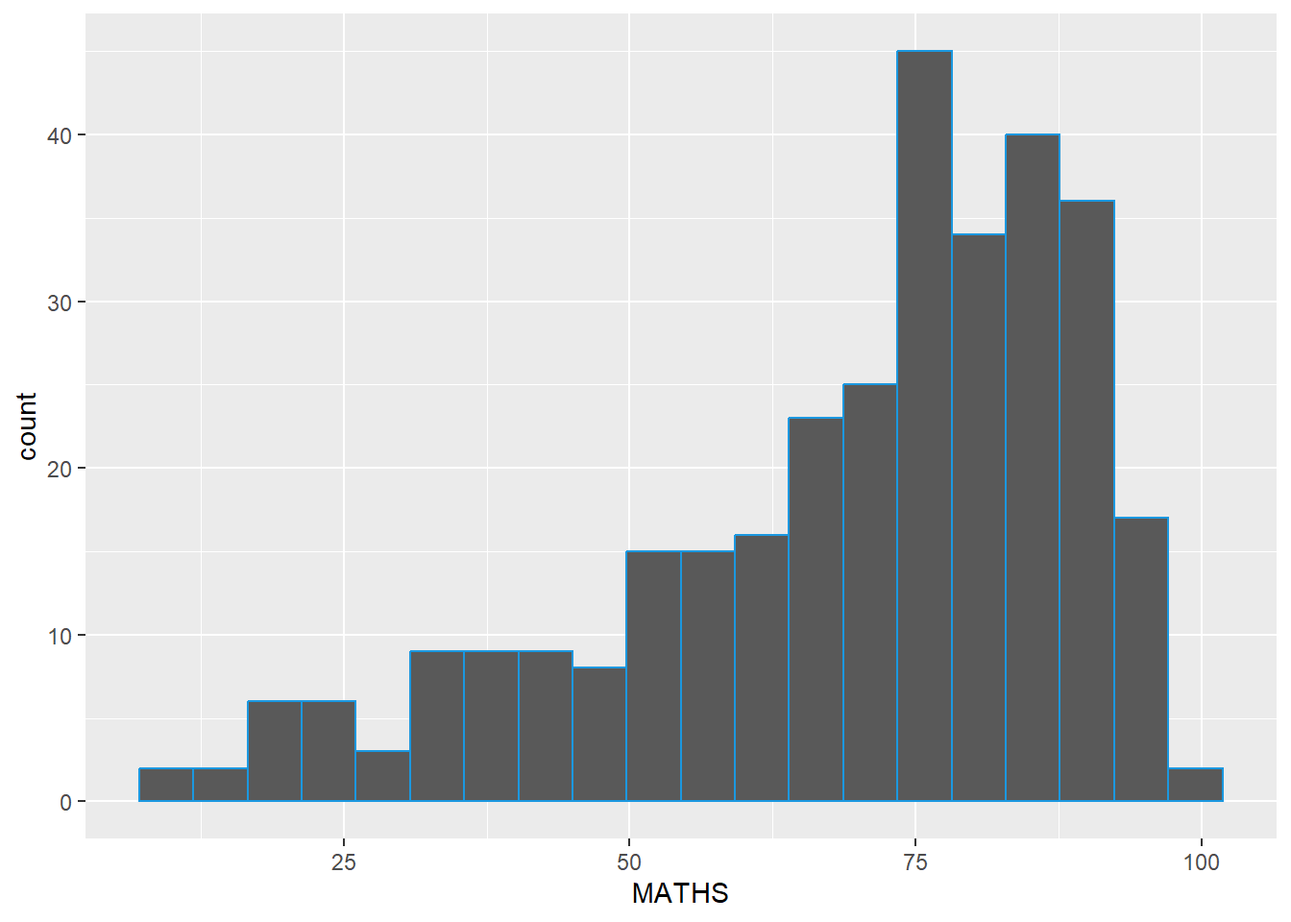
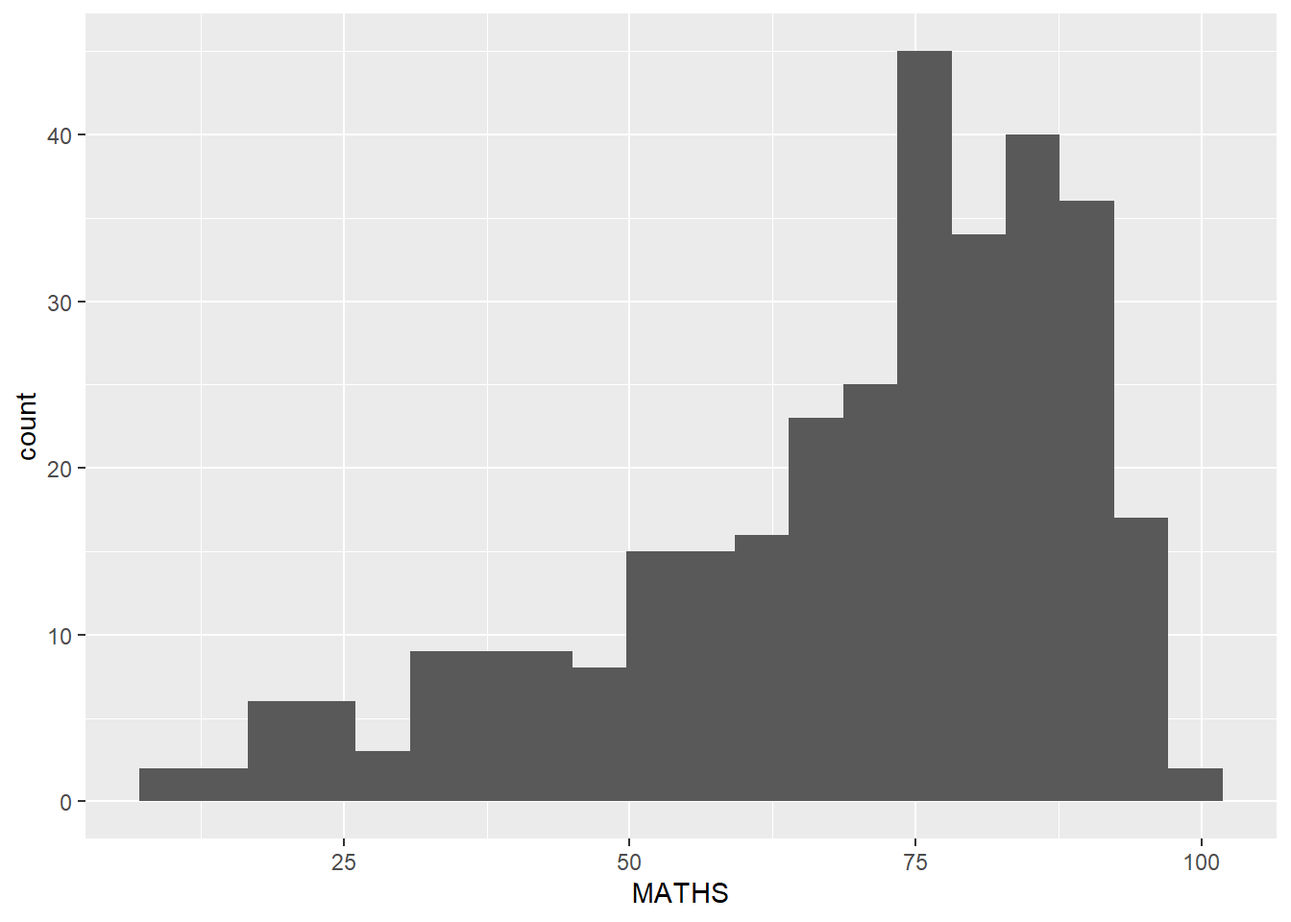
Commit refinement to In-class ex01 3

diff --git a/_site/In-class_Ex/In-class_Ex01/In-class_Ex01.html b/_site/In-class_Ex/In-class_Ex01/In-class_Ex01.html
@@ -198,22 +198,22 @@ code span.wa { color: #60a0b0; font-weight: bold; font-style: italic; } /* Warni
   <li><a href="#about-the-data" id="toc-about-the-data" class="nav-link" data-scroll-target="#about-the-data">About the data</a></li>
   </ul></li>
   <li><a href="#plotting-a-simple-horizontal-bar-chart" id="toc-plotting-a-simple-horizontal-bar-chart" class="nav-link" data-scroll-target="#plotting-a-simple-horizontal-bar-chart">Plotting a simple horizontal bar chart</a></li>
-  <li><a href="#designing-data-drive-graphics-for-analysis-i" id="toc-designing-data-drive-graphics-for-analysis-i" class="nav-link" data-scroll-target="#designing-data-drive-graphics-for-analysis-i">Designing Data-drive Graphics for Analysis I</a>
+  <li><a href="#designing-data-driven-graphics-for-analysis-i" id="toc-designing-data-driven-graphics-for-analysis-i" class="nav-link" data-scroll-target="#designing-data-driven-graphics-for-analysis-i">Designing Data-driven Graphics for Analysis I</a>
   <ul class="collapse">
   <li><a href="#the-original-design" id="toc-the-original-design" class="nav-link" data-scroll-target="#the-original-design">The original design</a></li>
   <li><a href="#the-makeover-design" id="toc-the-makeover-design" class="nav-link" data-scroll-target="#the-makeover-design">The makeover design</a></li>
   </ul></li>
-  <li><a href="#designing-data-drive-graphics-for-analysis-ii" id="toc-designing-data-drive-graphics-for-analysis-ii" class="nav-link" data-scroll-target="#designing-data-drive-graphics-for-analysis-ii">Designing Data-drive Graphics for Analysis II</a>
+  <li><a href="#designing-data-driven-graphics-for-analysis-ii" id="toc-designing-data-driven-graphics-for-analysis-ii" class="nav-link" data-scroll-target="#designing-data-driven-graphics-for-analysis-ii">Designing Data-driven Graphics for Analysis II</a>
   <ul class="collapse">
   <li><a href="#the-original-design-1" id="toc-the-original-design-1" class="nav-link" data-scroll-target="#the-original-design-1">The original design</a></li>
   <li><a href="#the-makeover-design-1" id="toc-the-makeover-design-1" class="nav-link" data-scroll-target="#the-makeover-design-1">The makeover design</a></li>
   </ul></li>
-  <li><a href="#designing-data-drive-graphics-for-analysis-iii" id="toc-designing-data-drive-graphics-for-analysis-iii" class="nav-link" data-scroll-target="#designing-data-drive-graphics-for-analysis-iii">Designing Data-drive Graphics for Analysis III</a>
+  <li><a href="#designing-data-driven-graphics-for-analysis-iii" id="toc-designing-data-driven-graphics-for-analysis-iii" class="nav-link" data-scroll-target="#designing-data-driven-graphics-for-analysis-iii">Designing Data-driven Graphics for Analysis III</a>
   <ul class="collapse">
   <li><a href="#the-original-design-2" id="toc-the-original-design-2" class="nav-link" data-scroll-target="#the-original-design-2">The original design</a></li>
   <li><a href="#the-makeover-design-2" id="toc-the-makeover-design-2" class="nav-link" data-scroll-target="#the-makeover-design-2">The makeover design</a></li>
   </ul></li>
-  <li><a href="#designing-data-drive-graphics-for-analysis-iv" id="toc-designing-data-drive-graphics-for-analysis-iv" class="nav-link" data-scroll-target="#designing-data-drive-graphics-for-analysis-iv">Designing Data-drive Graphics for Analysis IV</a>
+  <li><a href="#designing-data-driven-graphics-for-analysis-iv" id="toc-designing-data-driven-graphics-for-analysis-iv" class="nav-link" data-scroll-target="#designing-data-driven-graphics-for-analysis-iv">Designing Data-driven Graphics for Analysis IV</a>
   <ul class="collapse">
   <li><a href="#the-original-design-3" id="toc-the-original-design-3" class="nav-link" data-scroll-target="#the-original-design-3">The original design</a></li>
   <li><a href="#the-makeover-design-3" id="toc-the-makeover-design-3" class="nav-link" data-scroll-target="#the-makeover-design-3">The makeover design</a></li>
@@ -260,7 +260,7 @@ code span.wa { color: #60a0b0; font-weight: bold; font-style: italic; } /* Warni
 <p>The code chunk below uses p_load() of pacman package to check if tidyverse packages are installed on the computer. If they are, then they will be launched into R.</p>
 <div class="cell">
 <details>
-<summary>Code</summary>
+<summary>Show the code</summary>
 <div class="sourceCode cell-code" id="cb1"><pre class="sourceCode r code-with-copy"><code class="sourceCode r"><span id="cb1-1"><a href="#cb1-1" aria-hidden="true" tabindex="-1"></a>pacman<span class="sc">::</span><span class="fu">p_load</span>(tidyverse)</span></code><button title="Copy to Clipboard" class="code-copy-button"><i class="bi"></i></button></pre></div>
 </details>
 </div>
@@ -269,7 +269,7 @@ code span.wa { color: #60a0b0; font-weight: bold; font-style: italic; } /* Warni
 <h2 class="anchored" data-anchor-id="importing-the-data">Importing the data</h2>
 <div class="cell">
 <details>
-<summary>Code</summary>
+<summary>Show the code</summary>
 <div class="sourceCode cell-code" id="cb2"><pre class="sourceCode r code-with-copy"><code class="sourceCode r"><span id="cb2-1"><a href="#cb2-1" aria-hidden="true" tabindex="-1"></a>exam_data <span class="ot">&lt;-</span> <span class="fu">read_csv</span>(<span class="st">"data/Exam_data.csv"</span>)</span></code><button title="Copy to Clipboard" class="code-copy-button"><i class="bi"></i></button></pre></div>
 </details>
 </div>
@@ -283,7 +283,7 @@ code span.wa { color: #60a0b0; font-weight: bold; font-style: italic; } /* Warni
 <h1>Plotting a simple horizontal bar chart</h1>
 <div class="cell">
 <details>
-<summary>Code</summary>
+<summary>Show the code</summary>
 <div class="sourceCode cell-code" id="cb3"><pre class="sourceCode r code-with-copy"><code class="sourceCode r"><span id="cb3-1"><a href="#cb3-1" aria-hidden="true" tabindex="-1"></a><span class="fu">ggplot</span>(<span class="at">data =</span> exam_data,</span>
 <span id="cb3-2"><a href="#cb3-2" aria-hidden="true" tabindex="-1"></a>       <span class="fu">aes</span>(<span class="at">x =</span> RACE)) <span class="sc">+</span> </span>
 <span id="cb3-3"><a href="#cb3-3" aria-hidden="true" tabindex="-1"></a>  <span class="fu">geom_bar</span>() <span class="sc">+</span></span>
@@ -301,13 +301,13 @@ code span.wa { color: #60a0b0; font-weight: bold; font-style: italic; } /* Warni
 </div>
 </div>
 </section>
-<section id="designing-data-drive-graphics-for-analysis-i" class="level1">
-<h1>Designing Data-drive Graphics for Analysis I</h1>
+<section id="designing-data-driven-graphics-for-analysis-i" class="level1">
+<h1>Designing Data-driven Graphics for Analysis I</h1>
 <section id="the-original-design" class="level2">
 <h2 class="anchored" data-anchor-id="the-original-design">The original design</h2>
 <div class="cell">
 <details>
-<summary>Code</summary>
+<summary>Show the code</summary>
 <div class="sourceCode cell-code" id="cb4"><pre class="sourceCode r code-with-copy"><code class="sourceCode r"><span id="cb4-1"><a href="#cb4-1" aria-hidden="true" tabindex="-1"></a><span class="fu">ggplot</span>(<span class="at">data =</span> exam_data,</span>
 <span id="cb4-2"><a href="#cb4-2" aria-hidden="true" tabindex="-1"></a>       <span class="fu">aes</span>(<span class="at">x =</span> RACE)) <span class="sc">+</span> </span>
 <span id="cb4-3"><a href="#cb4-3" aria-hidden="true" tabindex="-1"></a>  <span class="fu">geom_bar</span>() <span class="sc">+</span></span>
@@ -328,7 +328,7 @@ code span.wa { color: #60a0b0; font-weight: bold; font-style: italic; } /* Warni
 <h2 class="anchored" data-anchor-id="the-makeover-design">The makeover design</h2>
 <div class="cell">
 <details>
-<summary>Code</summary>
+<summary>Show the code</summary>
 <div class="sourceCode cell-code" id="cb5"><pre class="sourceCode r code-with-copy"><code class="sourceCode r"><span id="cb5-1"><a href="#cb5-1" aria-hidden="true" tabindex="-1"></a><span class="fu">ggplot</span>(<span class="at">data =</span> exam_data,</span>
 <span id="cb5-2"><a href="#cb5-2" aria-hidden="true" tabindex="-1"></a>       <span class="fu">aes</span>(<span class="at">x=</span><span class="fu">reorder</span>(RACE,RACE,</span>
 <span id="cb5-3"><a href="#cb5-3" aria-hidden="true" tabindex="-1"></a>                     <span class="cf">function</span>(x)<span class="sc">-</span><span class="fu">length</span>(x)), <span class="at">fill =</span> RACE)) <span class="sc">+</span> </span>
@@ -348,29 +348,34 @@ code span.wa { color: #60a0b0; font-weight: bold; font-style: italic; } /* Warni
 </div>
 </section>
 </section>
-<section id="designing-data-drive-graphics-for-analysis-ii" class="level1">
-<h1>Designing Data-drive Graphics for Analysis II</h1>
+<section id="designing-data-driven-graphics-for-analysis-ii" class="level1">
+<h1>Designing Data-driven Graphics for Analysis II</h1>
 <section id="the-original-design-1" class="level2">
 <h2 class="anchored" data-anchor-id="the-original-design-1">The original design</h2>
 <div class="cell">
 <details>
-<summary>Code</summary>
+<summary>Show the code</summary>
 <div class="sourceCode cell-code" id="cb6"><pre class="sourceCode r code-with-copy"><code class="sourceCode r"><span id="cb6-1"><a href="#cb6-1" aria-hidden="true" tabindex="-1"></a><span class="fu">ggplot</span>(<span class="at">data =</span> exam_data,</span>
 <span id="cb6-2"><a href="#cb6-2" aria-hidden="true" tabindex="-1"></a>       <span class="fu">aes</span>(<span class="at">x =</span> MATHS)) <span class="sc">+</span> </span>
-<span id="cb6-3"><a href="#cb6-3" aria-hidden="true" tabindex="-1"></a>  <span class="fu">geom_histogram</span>(<span class="at">col =</span> <span class="st">"#1b98e0"</span>,</span>
-<span id="cb6-4"><a href="#cb6-4" aria-hidden="true" tabindex="-1"></a>                 <span class="at">bins=</span><span class="dv">20</span>) <span class="sc">+</span></span>
-<span id="cb6-5"><a href="#cb6-5" aria-hidden="true" tabindex="-1"></a>  <span class="fu">ylim</span>(<span class="dv">0</span>,<span class="dv">45</span>)</span></code><button title="Copy to Clipboard" class="code-copy-button"><i class="bi"></i></button></pre></div>
+<span id="cb6-3"><a href="#cb6-3" aria-hidden="true" tabindex="-1"></a>  <span class="fu">geom_histogram</span>(<span class="at">bins=</span><span class="dv">20</span>) <span class="sc">+</span></span>
+<span id="cb6-4"><a href="#cb6-4" aria-hidden="true" tabindex="-1"></a>  <span class="fu">ylim</span>(<span class="dv">0</span>,<span class="dv">45</span>)</span></code><button title="Copy to Clipboard" class="code-copy-button"><i class="bi"></i></button></pre></div>
 </details>
 <div class="cell-output-display">
 <p><img src="In-class_Ex01_files/figure-html/unnamed-chunk-6-1.png" class="img-fluid" width="672"></p>
 </div>
 </div>
+<p>Critique of this histogram:</p>
+<ol type="1">
+<li>y-aixs label is not clear (i.e.&nbsp;count).</li>
+<li>Can’t tell between each bar in the histogram</li>
+<li>There is no clear message that this histogram is looking to tell</li>
+</ol>
 </section>
 <section id="the-makeover-design-1" class="level2">
 <h2 class="anchored" data-anchor-id="the-makeover-design-1">The makeover design</h2>
 <div class="cell">
 <details>
-<summary>Code</summary>
+<summary>Show the code</summary>
 <div class="sourceCode cell-code" id="cb7"><pre class="sourceCode r code-with-copy"><code class="sourceCode r"><span id="cb7-1"><a href="#cb7-1" aria-hidden="true" tabindex="-1"></a><span class="fu">ggplot</span>(<span class="at">data=</span>exam_data, </span>
 <span id="cb7-2"><a href="#cb7-2" aria-hidden="true" tabindex="-1"></a>       <span class="fu">aes</span>(<span class="at">x=</span> MATHS)) <span class="sc">+</span></span>
 <span id="cb7-3"><a href="#cb7-3" aria-hidden="true" tabindex="-1"></a>  <span class="fu">geom_histogram</span>(<span class="at">bins=</span><span class="dv">20</span>, </span>
@@ -384,55 +389,53 @@ code span.wa { color: #60a0b0; font-weight: bold; font-style: italic; } /* Warni
 <span id="cb7-11"><a href="#cb7-11" aria-hidden="true" tabindex="-1"></a>             <span class="at">color=</span><span class="st">"grey30"</span>,</span>
 <span id="cb7-12"><a href="#cb7-12" aria-hidden="true" tabindex="-1"></a>             <span class="at">linetype=</span><span class="st">"dashed"</span>, </span>
 <span id="cb7-13"><a href="#cb7-13" aria-hidden="true" tabindex="-1"></a>             <span class="at">size=</span><span class="dv">1</span>) <span class="sc">+</span> <span class="fu">annotate</span>(<span class="st">"text"</span>, <span class="at">x=</span><span class="dv">75</span>, <span class="at">y=</span><span class="dv">40</span>, <span class="at">label=</span><span class="st">"Median"</span>, <span class="at">angle=</span><span class="dv">90</span>, <span class="at">size=</span><span class="dv">3</span>, <span class="at">color=</span><span class="st">"grey30"</span>) <span class="sc">+</span></span>
-<span id="cb7-14"><a href="#cb7-14" aria-hidden="true" tabindex="-1"></a>             <span class="fu">annotate</span>(<span class="st">"text"</span>, <span class="at">x=</span><span class="dv">68</span>, <span class="at">y=</span><span class="dv">40</span>, <span class="at">label=</span><span class="st">"Mean"</span>, <span class="at">angle=</span><span class="dv">90</span>, <span class="at">size=</span><span class="dv">3</span>, <span class="at">color=</span><span class="st">"red"</span>)</span></code><button title="Copy to Clipboard" class="code-copy-button"><i class="bi"></i></button></pre></div>
+<span id="cb7-14"><a href="#cb7-14" aria-hidden="true" tabindex="-1"></a>             <span class="fu">annotate</span>(<span class="st">"text"</span>, <span class="at">x=</span><span class="dv">68</span>, <span class="at">y=</span><span class="dv">40</span>, <span class="at">label=</span><span class="st">"Mean"</span>, <span class="at">angle=</span><span class="dv">90</span>, <span class="at">size=</span><span class="dv">3</span>, <span class="at">color=</span><span class="st">"red"</span>) <span class="sc">+</span></span>
+<span id="cb7-15"><a href="#cb7-15" aria-hidden="true" tabindex="-1"></a>  <span class="fu">ylim</span>(<span class="dv">0</span>,<span class="dv">45</span>)</span></code><button title="Copy to Clipboard" class="code-copy-button"><i class="bi"></i></button></pre></div>
 </details>
 <div class="cell-output-display">
 <p><img src="In-class_Ex01_files/figure-html/unnamed-chunk-7-1.png" class="img-fluid" width="672"></p>
 </div>
-<details>
-<summary>Code</summary>
-<div class="sourceCode cell-code" id="cb8"><pre class="sourceCode r code-with-copy"><code class="sourceCode r"><span id="cb8-1"><a href="#cb8-1" aria-hidden="true" tabindex="-1"></a>  <span class="fu">ylim</span>(<span class="dv">0</span>,<span class="dv">45</span>)</span></code><button title="Copy to Clipboard" class="code-copy-button"><i class="bi"></i></button></pre></div>
-</details>
-<div class="cell-output cell-output-stdout">
-<pre><code>&lt;ScaleContinuousPosition&gt;
- Range:  
- Limits:    0 --   45</code></pre>
-</div>
 </div>
 </section>
 </section>
-<section id="designing-data-drive-graphics-for-analysis-iii" class="level1">
-<h1>Designing Data-drive Graphics for Analysis III</h1>
+<section id="designing-data-driven-graphics-for-analysis-iii" class="level1">
+<h1>Designing Data-driven Graphics for Analysis III</h1>
 <section id="the-original-design-2" class="level2">
 <h2 class="anchored" data-anchor-id="the-original-design-2">The original design</h2>
 <div class="cell">
 <details>
-<summary>Code</summary>
-<div class="sourceCode cell-code" id="cb10"><pre class="sourceCode r code-with-copy"><code class="sourceCode r"><span id="cb10-1"><a href="#cb10-1" aria-hidden="true" tabindex="-1"></a><span class="fu">ggplot</span>(<span class="at">data=</span>exam_data, <span class="fu">aes</span>(<span class="at">x =</span> ENGLISH)) <span class="sc">+</span></span>
-<span id="cb10-2"><a href="#cb10-2" aria-hidden="true" tabindex="-1"></a>  <span class="fu">geom_histogram</span>(<span class="at">data =</span> exam_data, <span class="at">fill =</span> <span class="st">"darkgrey"</span>) <span class="sc">+</span></span>
-<span id="cb10-3"><a href="#cb10-3" aria-hidden="true" tabindex="-1"></a>  <span class="fu">facet_wrap</span>(<span class="sc">~</span> GENDER) <span class="sc">+</span></span>
-<span id="cb10-4"><a href="#cb10-4" aria-hidden="true" tabindex="-1"></a>  <span class="fu">guides</span>(<span class="at">fill =</span> <span class="cn">FALSE</span>) <span class="sc">+</span>  </span>
-<span id="cb10-5"><a href="#cb10-5" aria-hidden="true" tabindex="-1"></a>  <span class="fu">theme_bw</span>()</span></code><button title="Copy to Clipboard" class="code-copy-button"><i class="bi"></i></button></pre></div>
+<summary>Show the code</summary>
+<div class="sourceCode cell-code" id="cb8"><pre class="sourceCode r code-with-copy"><code class="sourceCode r"><span id="cb8-1"><a href="#cb8-1" aria-hidden="true" tabindex="-1"></a><span class="fu">ggplot</span>(<span class="at">data=</span>exam_data, <span class="fu">aes</span>(<span class="at">x =</span> ENGLISH)) <span class="sc">+</span></span>
+<span id="cb8-2"><a href="#cb8-2" aria-hidden="true" tabindex="-1"></a>  <span class="fu">geom_histogram</span>(<span class="at">data =</span> exam_data, <span class="at">fill =</span> <span class="st">"darkgrey"</span>) <span class="sc">+</span></span>
+<span id="cb8-3"><a href="#cb8-3" aria-hidden="true" tabindex="-1"></a>  <span class="fu">facet_wrap</span>(<span class="sc">~</span> GENDER) <span class="sc">+</span></span>
+<span id="cb8-4"><a href="#cb8-4" aria-hidden="true" tabindex="-1"></a>  <span class="fu">guides</span>(<span class="at">fill =</span> <span class="cn">FALSE</span>) <span class="sc">+</span>  </span>
+<span id="cb8-5"><a href="#cb8-5" aria-hidden="true" tabindex="-1"></a>  <span class="fu">theme_bw</span>()</span></code><button title="Copy to Clipboard" class="code-copy-button"><i class="bi"></i></button></pre></div>
 </details>
 <div class="cell-output-display">
 <p><img src="In-class_Ex01_files/figure-html/unnamed-chunk-8-1.png" class="img-fluid" width="672"></p>
 </div>
 </div>
+<p>Critique of these 2 histogram:</p>
+<ol type="1">
+<li>y-aixs label is not clear (i.e.&nbsp;count).</li>
+<li>There difference between male and female results is not apparent as there is no reference</li>
+<li>There is no clear message that these histograms are looking to tell</li>
+</ol>
 </section>
 <section id="the-makeover-design-2" class="level2">
 <h2 class="anchored" data-anchor-id="the-makeover-design-2">The makeover design</h2>
 <div class="cell">
 <details>
-<summary>Code</summary>
-<div class="sourceCode cell-code" id="cb11"><pre class="sourceCode r code-with-copy"><code class="sourceCode r"><span id="cb11-1"><a href="#cb11-1" aria-hidden="true" tabindex="-1"></a>d <span class="ot">&lt;-</span> exam_data   </span>
-<span id="cb11-2"><a href="#cb11-2" aria-hidden="true" tabindex="-1"></a>d_bg <span class="ot">&lt;-</span> d[, <span class="sc">-</span><span class="dv">3</span>]  </span>
-<span id="cb11-3"><a href="#cb11-3" aria-hidden="true" tabindex="-1"></a></span>
-<span id="cb11-4"><a href="#cb11-4" aria-hidden="true" tabindex="-1"></a><span class="fu">ggplot</span>(d, <span class="fu">aes</span>(<span class="at">x =</span> ENGLISH, <span class="at">fill =</span> GENDER)) <span class="sc">+</span></span>
-<span id="cb11-5"><a href="#cb11-5" aria-hidden="true" tabindex="-1"></a>  <span class="fu">geom_histogram</span>(<span class="at">data =</span> d_bg, <span class="at">fill =</span> <span class="st">"grey"</span>, <span class="at">alpha =</span> .<span class="dv">5</span>) <span class="sc">+</span></span>
-<span id="cb11-6"><a href="#cb11-6" aria-hidden="true" tabindex="-1"></a>  <span class="fu">geom_histogram</span>(<span class="at">colour =</span> <span class="st">"black"</span>) <span class="sc">+</span></span>
-<span id="cb11-7"><a href="#cb11-7" aria-hidden="true" tabindex="-1"></a>  <span class="fu">facet_wrap</span>(<span class="sc">~</span> GENDER) <span class="sc">+</span></span>
-<span id="cb11-8"><a href="#cb11-8" aria-hidden="true" tabindex="-1"></a>  <span class="fu">guides</span>(<span class="at">fill =</span> <span class="cn">FALSE</span>) <span class="sc">+</span>  </span>
-<span id="cb11-9"><a href="#cb11-9" aria-hidden="true" tabindex="-1"></a>  <span class="fu">theme_bw</span>()</span></code><button title="Copy to Clipboard" class="code-copy-button"><i class="bi"></i></button></pre></div>
+<summary>Show the code</summary>
+<div class="sourceCode cell-code" id="cb9"><pre class="sourceCode r code-with-copy"><code class="sourceCode r"><span id="cb9-1"><a href="#cb9-1" aria-hidden="true" tabindex="-1"></a>d <span class="ot">&lt;-</span> exam_data   </span>
+<span id="cb9-2"><a href="#cb9-2" aria-hidden="true" tabindex="-1"></a>d_bg <span class="ot">&lt;-</span> d[, <span class="sc">-</span><span class="dv">3</span>]  </span>
+<span id="cb9-3"><a href="#cb9-3" aria-hidden="true" tabindex="-1"></a></span>
+<span id="cb9-4"><a href="#cb9-4" aria-hidden="true" tabindex="-1"></a><span class="fu">ggplot</span>(d, <span class="fu">aes</span>(<span class="at">x =</span> ENGLISH, <span class="at">fill =</span> GENDER)) <span class="sc">+</span></span>
+<span id="cb9-5"><a href="#cb9-5" aria-hidden="true" tabindex="-1"></a>  <span class="fu">geom_histogram</span>(<span class="at">data =</span> d_bg, <span class="at">fill =</span> <span class="st">"grey"</span>, <span class="at">alpha =</span> .<span class="dv">5</span>) <span class="sc">+</span></span>
+<span id="cb9-6"><a href="#cb9-6" aria-hidden="true" tabindex="-1"></a>  <span class="fu">geom_histogram</span>(<span class="at">colour =</span> <span class="st">"black"</span>) <span class="sc">+</span></span>
+<span id="cb9-7"><a href="#cb9-7" aria-hidden="true" tabindex="-1"></a>  <span class="fu">facet_wrap</span>(<span class="sc">~</span> GENDER) <span class="sc">+</span></span>
+<span id="cb9-8"><a href="#cb9-8" aria-hidden="true" tabindex="-1"></a>  <span class="fu">guides</span>(<span class="at">fill =</span> <span class="cn">FALSE</span>) <span class="sc">+</span>  </span>
+<span id="cb9-9"><a href="#cb9-9" aria-hidden="true" tabindex="-1"></a>  <span class="fu">theme_bw</span>()</span></code><button title="Copy to Clipboard" class="code-copy-button"><i class="bi"></i></button></pre></div>
 </details>
 <div class="cell-output-display">
 <p><img src="In-class_Ex01_files/figure-html/unnamed-chunk-9-1.png" class="img-fluid" width="672"></p>
@@ -440,43 +443,49 @@ code span.wa { color: #60a0b0; font-weight: bold; font-style: italic; } /* Warni
 </div>
 </section>
 </section>
-<section id="designing-data-drive-graphics-for-analysis-iv" class="level1">
-<h1>Designing Data-drive Graphics for Analysis IV</h1>
+<section id="designing-data-driven-graphics-for-analysis-iv" class="level1">
+<h1>Designing Data-driven Graphics for Analysis IV</h1>
 <section id="the-original-design-3" class="level2">
 <h2 class="anchored" data-anchor-id="the-original-design-3">The original design</h2>
 <div class="cell">
 <details>
-<summary>Code</summary>
-<div class="sourceCode cell-code" id="cb12"><pre class="sourceCode r code-with-copy"><code class="sourceCode r"><span id="cb12-1"><a href="#cb12-1" aria-hidden="true" tabindex="-1"></a><span class="fu">ggplot</span>(<span class="at">data=</span>exam_data, </span>
-<span id="cb12-2"><a href="#cb12-2" aria-hidden="true" tabindex="-1"></a>       <span class="fu">aes</span>(<span class="at">x=</span> MATHS, </span>
-<span id="cb12-3"><a href="#cb12-3" aria-hidden="true" tabindex="-1"></a>           <span class="at">y=</span>ENGLISH)) <span class="sc">+</span></span>
-<span id="cb12-4"><a href="#cb12-4" aria-hidden="true" tabindex="-1"></a>  <span class="fu">geom_point</span>(<span class="at">size =</span> <span class="fl">0.8</span>) <span class="sc">+</span></span>
-<span id="cb12-5"><a href="#cb12-5" aria-hidden="true" tabindex="-1"></a>  <span class="fu">coord_cartesian</span>(<span class="at">xlim=</span><span class="fu">c</span>(<span class="dv">0</span>,<span class="dv">100</span>),</span>
-<span id="cb12-6"><a href="#cb12-6" aria-hidden="true" tabindex="-1"></a>                  <span class="at">ylim=</span><span class="fu">c</span>(<span class="dv">0</span>,<span class="dv">100</span>))</span></code><button title="Copy to Clipboard" class="code-copy-button"><i class="bi"></i></button></pre></div>
+<summary>Show the code</summary>
+<div class="sourceCode cell-code" id="cb10"><pre class="sourceCode r code-with-copy"><code class="sourceCode r"><span id="cb10-1"><a href="#cb10-1" aria-hidden="true" tabindex="-1"></a><span class="fu">ggplot</span>(<span class="at">data=</span>exam_data, </span>
+<span id="cb10-2"><a href="#cb10-2" aria-hidden="true" tabindex="-1"></a>       <span class="fu">aes</span>(<span class="at">x=</span> MATHS, </span>
+<span id="cb10-3"><a href="#cb10-3" aria-hidden="true" tabindex="-1"></a>           <span class="at">y=</span>ENGLISH)) <span class="sc">+</span></span>
+<span id="cb10-4"><a href="#cb10-4" aria-hidden="true" tabindex="-1"></a>  <span class="fu">geom_point</span>(<span class="at">size =</span> <span class="fl">0.8</span>) <span class="sc">+</span></span>
+<span id="cb10-5"><a href="#cb10-5" aria-hidden="true" tabindex="-1"></a>  <span class="fu">coord_cartesian</span>(<span class="at">xlim=</span><span class="fu">c</span>(<span class="dv">0</span>,<span class="dv">100</span>),</span>
+<span id="cb10-6"><a href="#cb10-6" aria-hidden="true" tabindex="-1"></a>                  <span class="at">ylim=</span><span class="fu">c</span>(<span class="dv">0</span>,<span class="dv">100</span>))</span></code><button title="Copy to Clipboard" class="code-copy-button"><i class="bi"></i></button></pre></div>
 </details>
 <div class="cell-output-display">
 <p><img src="In-class_Ex01_files/figure-html/unnamed-chunk-10-1.png" class="img-fluid" width="672"></p>
 </div>
 </div>
+<p>Critique of this Scatterplot:</p>
+<ol type="1">
+<li>Points are two small</li>
+<li>No relative reference point/line</li>
+<li>There is no clear message that this histogram is looking to tell</li>
+</ol>
 </section>
 <section id="the-makeover-design-3" class="level2">
 <h2 class="anchored" data-anchor-id="the-makeover-design-3">The makeover design</h2>
 <div class="cell">
 <details>
-<summary>Code</summary>
-<div class="sourceCode cell-code" id="cb13"><pre class="sourceCode r code-with-copy"><code class="sourceCode r"><span id="cb13-1"><a href="#cb13-1" aria-hidden="true" tabindex="-1"></a><span class="fu">ggplot</span>(<span class="at">data=</span>exam_data, </span>
-<span id="cb13-2"><a href="#cb13-2" aria-hidden="true" tabindex="-1"></a>       <span class="fu">aes</span>(<span class="at">x=</span>MATHS, <span class="at">y=</span>ENGLISH)) <span class="sc">+</span></span>
-<span id="cb13-3"><a href="#cb13-3" aria-hidden="true" tabindex="-1"></a>  <span class="fu">geom_point</span>() <span class="sc">+</span></span>
-<span id="cb13-4"><a href="#cb13-4" aria-hidden="true" tabindex="-1"></a>  <span class="fu">coord_cartesian</span>(<span class="at">xlim=</span><span class="fu">c</span>(<span class="dv">0</span>,<span class="dv">100</span>),</span>
-<span id="cb13-5"><a href="#cb13-5" aria-hidden="true" tabindex="-1"></a>                  <span class="at">ylim=</span><span class="fu">c</span>(<span class="dv">0</span>,<span class="dv">100</span>)) <span class="sc">+</span></span>
-<span id="cb13-6"><a href="#cb13-6" aria-hidden="true" tabindex="-1"></a>  <span class="fu">geom_hline</span>(<span class="at">yintercept=</span><span class="dv">50</span>,</span>
-<span id="cb13-7"><a href="#cb13-7" aria-hidden="true" tabindex="-1"></a>             <span class="at">linetype=</span><span class="st">"dashed"</span>,</span>
-<span id="cb13-8"><a href="#cb13-8" aria-hidden="true" tabindex="-1"></a>             <span class="at">color=</span><span class="st">"grey60"</span>,</span>
-<span id="cb13-9"><a href="#cb13-9" aria-hidden="true" tabindex="-1"></a>             <span class="at">size=</span><span class="dv">1</span>) <span class="sc">+</span> </span>
-<span id="cb13-10"><a href="#cb13-10" aria-hidden="true" tabindex="-1"></a>  <span class="fu">geom_vline</span>(<span class="at">xintercept=</span><span class="dv">50</span>, </span>
-<span id="cb13-11"><a href="#cb13-11" aria-hidden="true" tabindex="-1"></a>             <span class="at">linetype=</span><span class="st">"dashed"</span>,</span>
-<span id="cb13-12"><a href="#cb13-12" aria-hidden="true" tabindex="-1"></a>             <span class="at">color=</span><span class="st">"grey60"</span>,</span>
-<span id="cb13-13"><a href="#cb13-13" aria-hidden="true" tabindex="-1"></a>             <span class="at">size=</span><span class="dv">1</span>) <span class="sc">+</span> <span class="fu">annotate</span>(<span class="st">"text"</span>, <span class="at">x=</span><span class="dv">14</span>, <span class="at">y=</span><span class="dv">5</span>, <span class="at">label=</span><span class="st">"Weak at both Subjects"</span>, <span class="at">angle=</span><span class="dv">0</span>, <span class="at">size=</span><span class="dv">5</span>, <span class="at">color=</span><span class="st">"red"</span>) <span class="sc">+</span> <span class="fu">annotate</span>(<span class="st">"text"</span>, <span class="at">x=</span><span class="dv">85</span>, <span class="at">y=</span><span class="dv">100</span>, <span class="at">label=</span><span class="st">"Strong at both Subjects"</span>, <span class="at">angle=</span><span class="dv">0</span>, <span class="at">size=</span><span class="dv">5</span>, <span class="at">color=</span><span class="st">"green"</span>) <span class="sc">+</span> <span class="fu">annotate</span>(<span class="st">"text"</span>, <span class="at">x=</span><span class="dv">85</span>, <span class="at">y=</span><span class="dv">5</span>, <span class="at">label=</span><span class="st">"Stronger at Maths"</span>, <span class="at">angle=</span><span class="dv">0</span>, <span class="at">size=</span><span class="dv">5</span>, <span class="at">color=</span><span class="st">"orange"</span>) <span class="sc">+</span> <span class="fu">annotate</span>(<span class="st">"text"</span>, <span class="at">x=</span><span class="dv">14</span>, <span class="at">y=</span><span class="dv">100</span>, <span class="at">label=</span><span class="st">"Stronger at English"</span>, <span class="at">angle=</span><span class="dv">0</span>, <span class="at">size=</span><span class="dv">5</span>, <span class="at">color=</span><span class="st">"orange"</span>)</span></code><button title="Copy to Clipboard" class="code-copy-button"><i class="bi"></i></button></pre></div>
+<summary>Show the code</summary>
+<div class="sourceCode cell-code" id="cb11"><pre class="sourceCode r code-with-copy"><code class="sourceCode r"><span id="cb11-1"><a href="#cb11-1" aria-hidden="true" tabindex="-1"></a><span class="fu">ggplot</span>(<span class="at">data=</span>exam_data, </span>
+<span id="cb11-2"><a href="#cb11-2" aria-hidden="true" tabindex="-1"></a>       <span class="fu">aes</span>(<span class="at">x=</span>MATHS, <span class="at">y=</span>ENGLISH)) <span class="sc">+</span></span>
+<span id="cb11-3"><a href="#cb11-3" aria-hidden="true" tabindex="-1"></a>  <span class="fu">geom_point</span>() <span class="sc">+</span></span>
+<span id="cb11-4"><a href="#cb11-4" aria-hidden="true" tabindex="-1"></a>  <span class="fu">coord_cartesian</span>(<span class="at">xlim=</span><span class="fu">c</span>(<span class="dv">0</span>,<span class="dv">100</span>),</span>
+<span id="cb11-5"><a href="#cb11-5" aria-hidden="true" tabindex="-1"></a>                  <span class="at">ylim=</span><span class="fu">c</span>(<span class="dv">0</span>,<span class="dv">100</span>)) <span class="sc">+</span></span>
+<span id="cb11-6"><a href="#cb11-6" aria-hidden="true" tabindex="-1"></a>  <span class="fu">geom_hline</span>(<span class="at">yintercept=</span><span class="dv">50</span>,</span>
+<span id="cb11-7"><a href="#cb11-7" aria-hidden="true" tabindex="-1"></a>             <span class="at">linetype=</span><span class="st">"dashed"</span>,</span>
+<span id="cb11-8"><a href="#cb11-8" aria-hidden="true" tabindex="-1"></a>             <span class="at">color=</span><span class="st">"grey60"</span>,</span>
+<span id="cb11-9"><a href="#cb11-9" aria-hidden="true" tabindex="-1"></a>             <span class="at">size=</span><span class="dv">1</span>) <span class="sc">+</span> </span>
+<span id="cb11-10"><a href="#cb11-10" aria-hidden="true" tabindex="-1"></a>  <span class="fu">geom_vline</span>(<span class="at">xintercept=</span><span class="dv">50</span>, </span>
+<span id="cb11-11"><a href="#cb11-11" aria-hidden="true" tabindex="-1"></a>             <span class="at">linetype=</span><span class="st">"dashed"</span>,</span>
+<span id="cb11-12"><a href="#cb11-12" aria-hidden="true" tabindex="-1"></a>             <span class="at">color=</span><span class="st">"grey60"</span>,</span>
+<span id="cb11-13"><a href="#cb11-13" aria-hidden="true" tabindex="-1"></a>             <span class="at">size=</span><span class="dv">1</span>) <span class="sc">+</span> <span class="fu">annotate</span>(<span class="st">"text"</span>, <span class="at">x=</span><span class="dv">14</span>, <span class="at">y=</span><span class="dv">5</span>, <span class="at">label=</span><span class="st">"Weak at both Subjects"</span>, <span class="at">angle=</span><span class="dv">0</span>, <span class="at">size=</span><span class="dv">5</span>, <span class="at">color=</span><span class="st">"red"</span>) <span class="sc">+</span> <span class="fu">annotate</span>(<span class="st">"text"</span>, <span class="at">x=</span><span class="dv">85</span>, <span class="at">y=</span><span class="dv">100</span>, <span class="at">label=</span><span class="st">"Strong at both Subjects"</span>, <span class="at">angle=</span><span class="dv">0</span>, <span class="at">size=</span><span class="dv">5</span>, <span class="at">color=</span><span class="st">"green"</span>) <span class="sc">+</span> <span class="fu">annotate</span>(<span class="st">"text"</span>, <span class="at">x=</span><span class="dv">85</span>, <span class="at">y=</span><span class="dv">5</span>, <span class="at">label=</span><span class="st">"Stronger at Maths"</span>, <span class="at">angle=</span><span class="dv">0</span>, <span class="at">size=</span><span class="dv">5</span>, <span class="at">color=</span><span class="st">"orange"</span>) <span class="sc">+</span> <span class="fu">annotate</span>(<span class="st">"text"</span>, <span class="at">x=</span><span class="dv">14</span>, <span class="at">y=</span><span class="dv">100</span>, <span class="at">label=</span><span class="st">"Stronger at English"</span>, <span class="at">angle=</span><span class="dv">0</span>, <span class="at">size=</span><span class="dv">5</span>, <span class="at">color=</span><span class="st">"orange"</span>)</span></code><button title="Copy to Clipboard" class="code-copy-button"><i class="bi"></i></button></pre></div>
 </details>
 <div class="cell-output-display">
 <p><img src="In-class_Ex01_files/figure-html/unnamed-chunk-11-1.png" class="img-fluid" width="672"></p>
